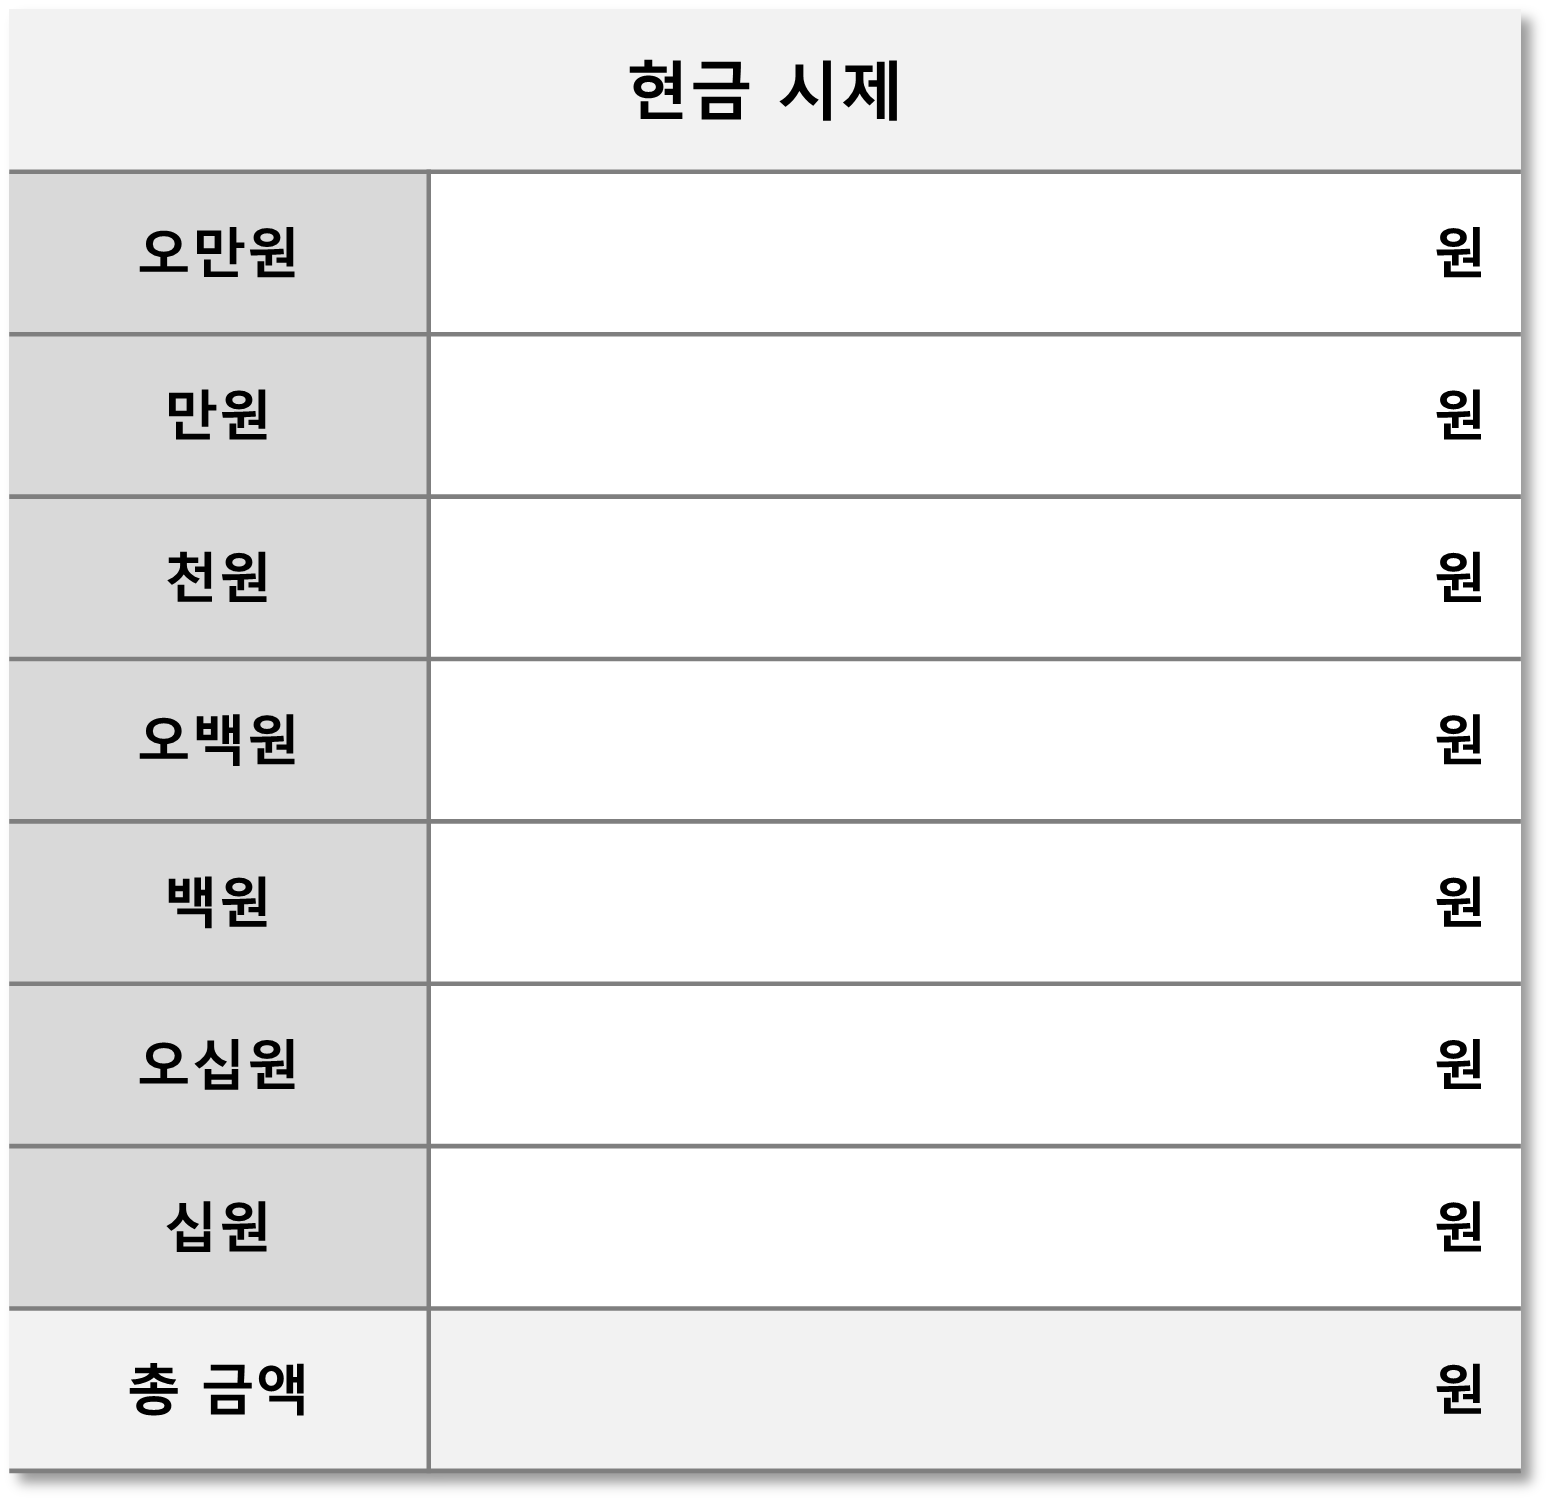
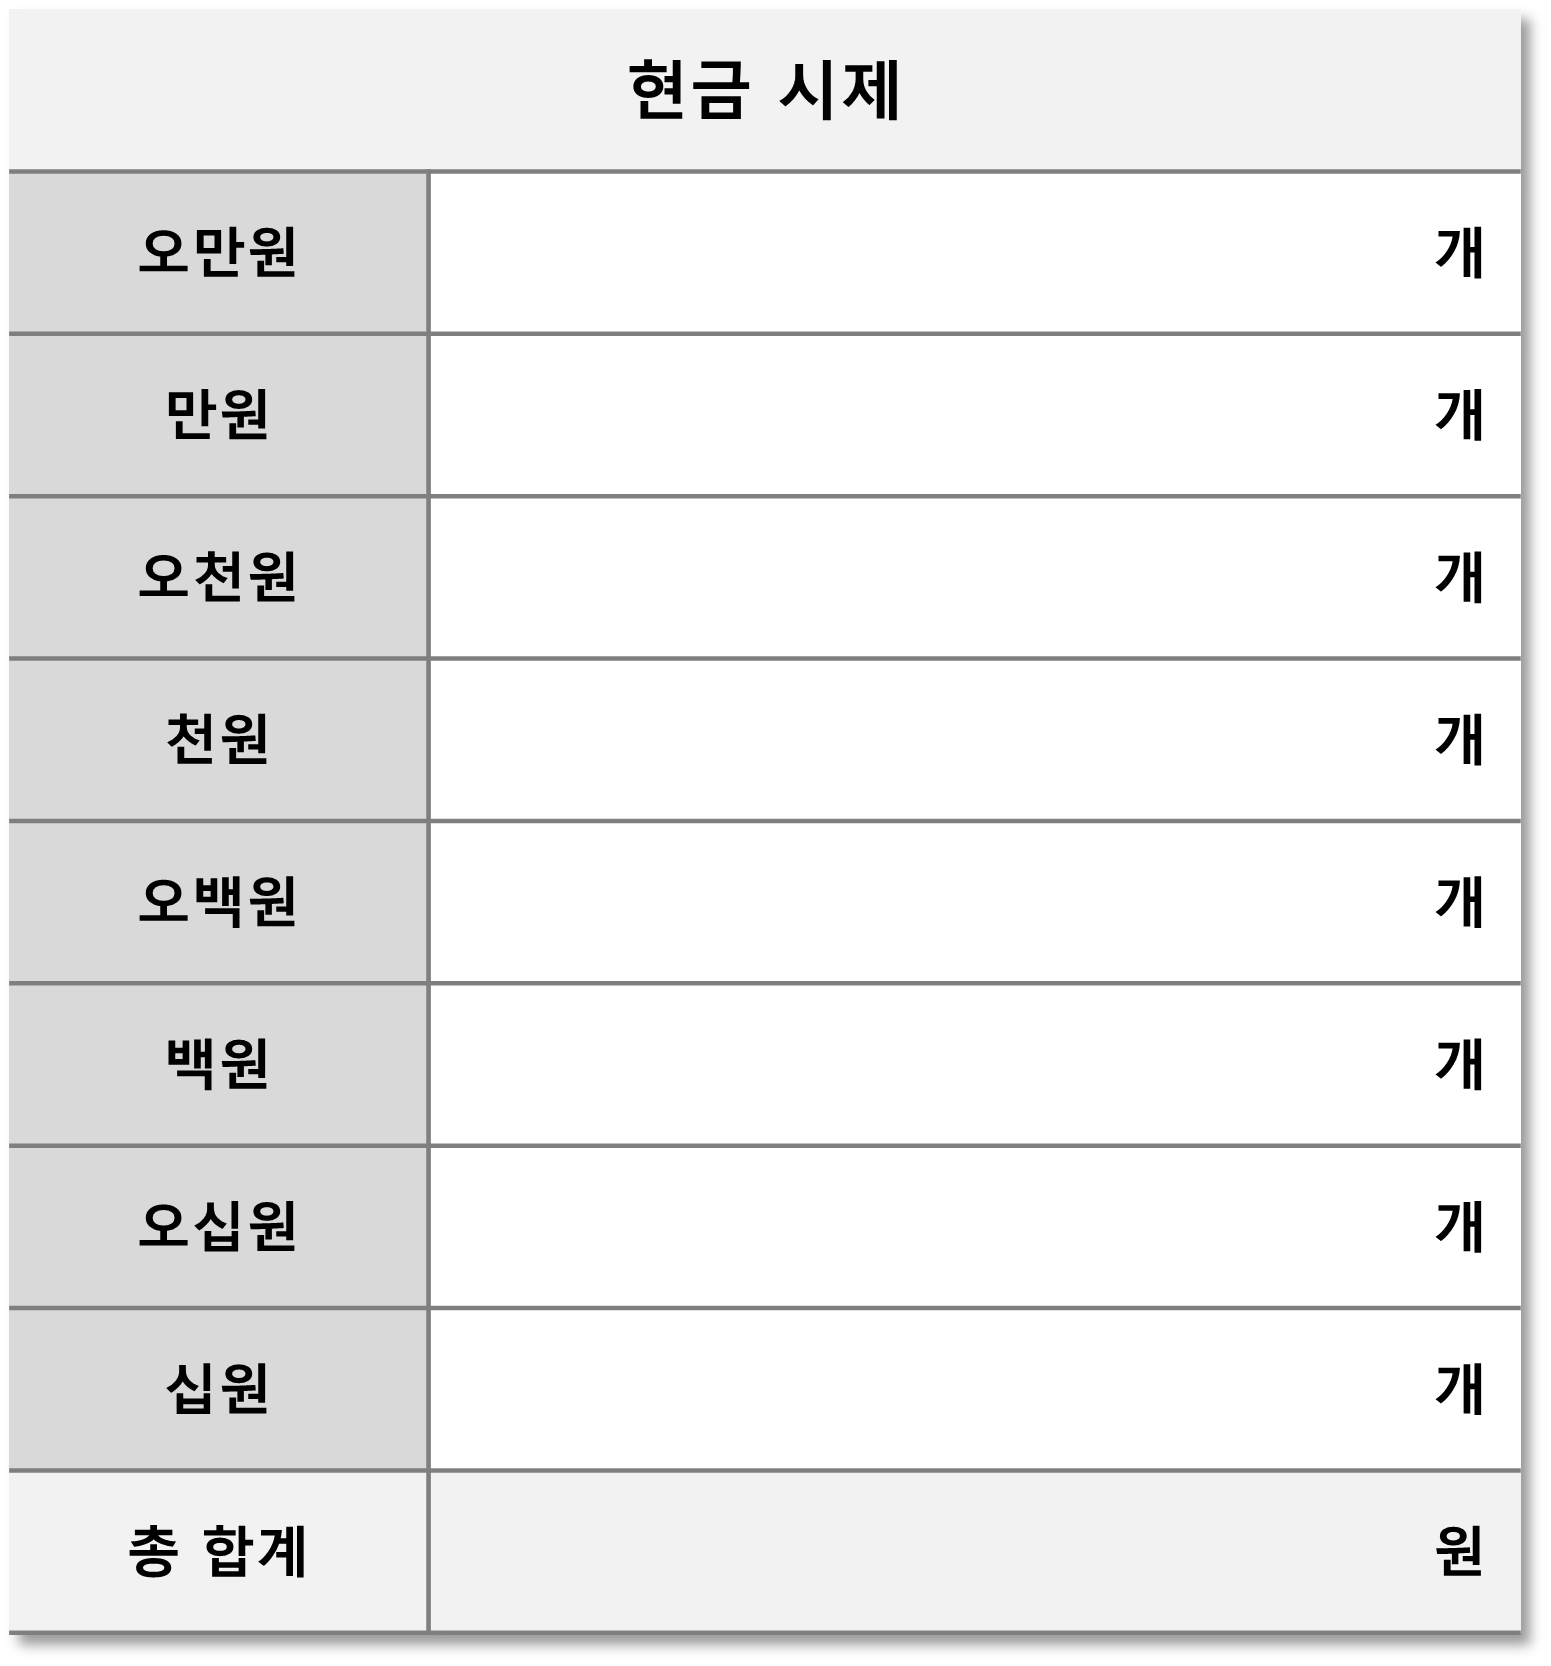
POS 마감 프레임 수정 완

Changed region(s): [[0.0, 0.0312, 0.9903, 0.6562], [0.0, 0.6875, 0.9903, 1.0]]

diff --git a/src/pos/closing/closing_main/ClosingFrame.java b/src/pos/closing/closing_main/ClosingFrame.java
@@ -34,7 +34,7 @@ public class ClosingFrame extends JFrame {
 		// 결제 수단 이미지 패널
 		JPanel panelA = new ClosingImagePanel(ImageScaledTool.getScaledImage(
 				"images/PosImages/마감 이미지/현금 & 카드 결제 금액 확인 틀.png", 400, 100));
-		panelA.setBounds(120, 80, 400, 100);
+		panelA.setBounds(120, 90, 400, 100);
 		
 		JLabel label1 = new EmptyLabel();
 		label1.setLocation(265, 14);
@@ -48,48 +48,52 @@ public class ClosingFrame extends JFrame {
 		// 현금 시제 이미지 패널
 		JPanel panelB = new ClosingImagePanel(ImageScaledTool.getScaledImage(
 				"images/PosImages/마감 이미지/현금 시제 기본 틀.png", 400, 430));
-		panelB.setBounds(120, 230, 400, 430);
+		panelB.setBounds(120, 220, 400, 430);
 		
-//		EmptyLabel[] labels = new EmptyLabel[8];
-//		int locationY = 60;
-//		for (int i = 0; i < 8; ++i) {
-//			labels[i] = new EmptyLabel();
-//			labels[i].setLocation(265, locationY);
-//			panelB.add(labels[i]);
-//			locationY += 46;
-//		}
+		EmptyLabel[] labels = new EmptyLabel[9];
+		int locationY = 54;
+		for (int i = 0; i < 9; ++i) {
+			labels[i] = new EmptyLabel();
+			labels[i].setLocation(265, locationY);
+			panelB.add(labels[i]);
+			locationY += 42;
+		}
 		
-		JLabel count50000 = new EmptyLabel();
-		count50000.setLocation(265, 61);
-		panelB.add(count50000);
-		
-		JLabel count10000 = new EmptyLabel();
-		count10000.setLocation(265, 107);
-		panelB.add(count10000);
-		
-		JLabel count1000 = new EmptyLabel();
-		count1000.setLocation(265, 154);
-		panelB.add(count1000);
-		
-		JLabel count500 = new EmptyLabel();
-		count500.setLocation(265, 200);
-		panelB.add(count500);
-
-		JLabel count100 = new EmptyLabel();
-		count100.setLocation(265, 247);
-		panelB.add(count100);
-		
-		JLabel count50 = new EmptyLabel();
-		count50.setLocation(265, 293);
-		panelB.add(count50);
-		
-		JLabel count10 = new EmptyLabel();
-		count10.setLocation(265, 340);
-		panelB.add(count10);
-
-		JLabel countAll = new EmptyLabel();
-		countAll.setLocation(265, 386);
-		panelB.add(countAll);
+//		JLabel count50000 = new EmptyLabel();
+//		count50000.setLocation(265, 54);
+//		panelB.add(count50000);
+//		
+//		JLabel count10000 = new EmptyLabel();
+//		count10000.setLocation(265, 96);
+//		panelB.add(count10000);
+//		
+//		JLabel count5000 = new EmptyLabel();
+//		count5000.setLocation(265, 138);
+//		panelB.add(count5000);
+//		
+//		JLabel count1000 = new EmptyLabel();
+//		count1000.setLocation(265, 154);
+//		panelB.add(count1000);
+//		
+//		JLabel count500 = new EmptyLabel();
+//		count500.setLocation(265, 200);
+//		panelB.add(count500);
+//
+//		JLabel count100 = new EmptyLabel();
+//		count100.setLocation(265, 247);
+//		panelB.add(count100);
+//		
+//		JLabel count50 = new EmptyLabel();
+//		count50.setLocation(265, 293);
+//		panelB.add(count50);
+//		
+//		JLabel count10 = new EmptyLabel();
+//		count10.setLocation(265, 340);
+//		panelB.add(count10);
+//
+//		JLabel countAll = new EmptyLabel();
+//		countAll.setLocation(265, 386);
+//		panelB.add(countAll);
 
 		
 		// 마감 내역 이미지 패널
